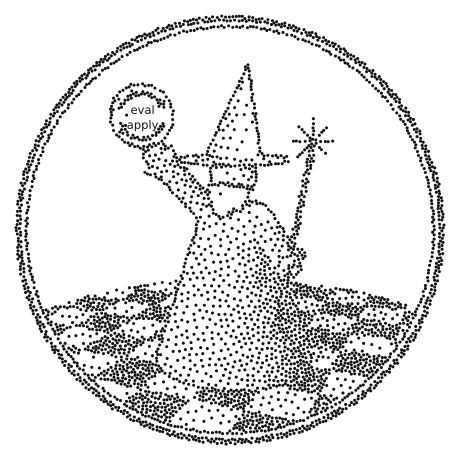
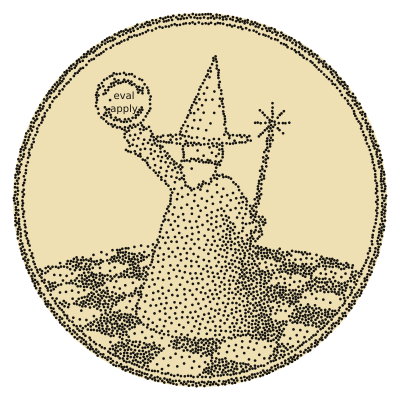
profile in ocra: agda and racket side by side, and puntini, the dot engine
The banners and the wizard in ochre and black (nero on ochre, ochre on nero),
the README with two workshops, agda and racket, and Ocra badges.
tools/puntini.rkt is the stippling engine both drawings now share, after SICP's
picture language: painters, over/beside/below and the frame, then stipple and svg.
Regenerated with the old colours, the drawings were byte-identical.

diff --git a/README.md b/README.md
@@ -1,30 +1,33 @@
 <p align="center">
   <picture>
     <source media="(prefers-color-scheme: dark)" srcset="./banner-dark.svg" />
-    <img src="./banner-light.svg" width="100%" alt="alvise vitturi — formally verified observability in agda" />
+    <img src="./banner-light.svg" width="100%" alt="alvise vitturi — type theory in agda and racket" />
   </picture>
 </p>
 
-<p align="center"><code>making invalid states unrepresentable — one dependently-typed observability tool at a time</code></p>
+<p align="center"><code>a proof is a program; a language is data — two workshops, agda and racket</code></p>
 
 <p align="center">
-  <img src="https://img.shields.io/badge/agda-2.8-111111?style=flat-square&labelColor=555555" />
-  <img src="https://img.shields.io/badge/type_theory-HoTT-111111?style=flat-square&labelColor=555555" />
-  <img src="https://img.shields.io/badge/nix-flakes-111111?style=flat-square&labelColor=555555" />
-  <img src="https://img.shields.io/badge/correct-by_construction-111111?style=flat-square&labelColor=555555" />
+  <img src="https://img.shields.io/badge/agda-2.8-d6b866?style=flat-square&labelColor=15130f" />
+  <img src="https://img.shields.io/badge/racket-8.18-d6b866?style=flat-square&labelColor=15130f" />
+  <img src="https://img.shields.io/badge/scheme-sicp_·_eval%2Fapply-d6b866?style=flat-square&labelColor=15130f" />
+  <img src="https://img.shields.io/badge/type_theory-HoTT-d6b866?style=flat-square&labelColor=15130f" />
+  <img src="https://img.shields.io/badge/nix-flakes-d6b866?style=flat-square&labelColor=15130f" />
+  <img src="https://img.shields.io/badge/correct-by_construction-d6b866?style=flat-square&labelColor=15130f" />
 </p>
 
 ---
 
 ### ● building
 
-a **formally verified observability stack in agda** — metrics, logs, alerts and
-dashboards that are *correct by construction*. no dsl accepts a malformed query, no
-alert inverts a threshold, no dashboard panel renders empty: the type checker rejects
-them before they ever leave the source file.
+two workshops, one bet: **a proof is a test that covers *all* inputs, not a finite sample.**
 
-the bet — **type theory is the cheapest place to catch an ops outage.** a proof is a
-test that covers *all* inputs, not a finite sample.
+- **agda** — a formally verified observability stack: metrics, logs, alerts and
+  dashboards that are *correct by construction*. no dsl accepts a malformed query, no
+  alert inverts a threshold, no dashboard panel renders empty.
+- **racket** — the scheme of sicp, where code is data and eval/apply is the whole
+  machine: **bottega**, a total mltt core in the style of pie, and a tower of `#lang`s
+  on top whose tests are proofs.
 
 ---
 
@@ -33,23 +36,28 @@ test that covers *all* inputs, not a finite sample.
 a single ecosystem. each library proves one law, then composes.
 
 ```
-observability
+agda · observability
   01  prometea      semantic framework for prometheus metrics — meaning, no syntax
   02  henql         typed promql dsl — the type checker is your linter        ↳ prometea
   03  loqeul        total query algebra unifying logql & elastic, correct optimizer
   04  agdovana      formally verified prometheus alerts → yaml                ↳ prometea
   05  penelope      verifiable grafana dashboards, panels & layout proven     ↳ henql · loqeul
 
-substrate
-  06  janus         agda↔haskell ffi bridge — decode ∘ encode ≡ id, proven closed
-  07  cardea        service config as a monotone map over a lattice of env-vars
-  08  ibisfs        a filesystem as a lattice, not a hierarchy                ↳ janus
-  09  gallicinium   server-side elm in agda — the model never leaves the server ↳ janus
-  10  efesta        type-indexed, deferred-execution dagger sdk              ↳ janus
-  11  dagger_gleam  the same idea in gleam — pipelines as typed data
-  12  piforge       nix toolchains for agda, haskell, elm, gleam & latex — prebuilt
-  13  bottega       an mltt core in racket, three dialects: disegno for dagger
-                    pipelines, prospettiva for nix config, affresco for server-side elm
+racket · bottega
+  06  bottega       a total mltt core in racket, pie-style — Π, Σ, ≡, refl by computation
+  07  disegno       #lang disegno — dagger pipelines declared, not run         ↳ bottega
+  08  prospettiva   #lang prospettiva — one model, many environments, nix      ↳ bottega
+  09  affresco      #lang affresco — the elm architecture, total, server-side  ↳ bottega
+  10  puntini       a stippling engine after sicp's picture language — these images
+
+agda · substrate
+  11  janus         agda↔haskell ffi bridge — decode ∘ encode ≡ id, proven closed
+  12  cardea        service config as a monotone map over a lattice of env-vars
+  13  ibisfs        a filesystem as a lattice, not a hierarchy                ↳ janus
+  14  gallicinium   server-side elm in agda — the model never leaves the server ↳ janus
+  15  efesta        type-indexed, deferred-execution dagger sdk              ↳ janus
+  16  dagger_gleam  the same idea in gleam — pipelines as typed data
+  17  piforge       nix toolchains for agda, haskell, elm, gleam & latex — prebuilt
 ```
 
 ---
@@ -67,8 +75,8 @@ substrate
 ### ● stack
 
 ```
-  languages    agda · haskell (ffi / malonzo) · gleam · racket
-  foundations  type theory · HoTT / univalence · lattice & order theory
+  languages    agda · racket / scheme · haskell (ffi / malonzo) · gleam
+  foundations  type theory · HoTT / univalence · sicp · lattice & order theory
   tooling      nix / nixos · dagger.io · latex (classicthesis)
   domain       prometheus · loki · elastic · grafana — formally verified
 ```
@@ -78,11 +86,11 @@ substrate
 ### ● signs
 
 <p align="center">
-  <img src="https://github-readme-stats.vercel.app/api?username=avit-io&show_icons=true&hide_border=true&title_color=888888&icon_color=888888&text_color=888888&bg_color=00000000" alt="stats" />
+  <img src="https://github-readme-stats.vercel.app/api?username=avit-io&show_icons=true&hide_border=true&title_color=8c6b27&icon_color=8c6b27&text_color=8c6b27&bg_color=00000000" alt="stats" />
 </p>
 
 <p align="center">
-  <img src="https://github-readme-stats.vercel.app/api/top-langs/?username=avit-io&layout=compact&hide_border=true&title_color=888888&text_color=888888&bg_color=00000000" alt="top languages" />
+  <img src="https://github-readme-stats.vercel.app/api/top-langs/?username=avit-io&layout=compact&hide_border=true&title_color=8c6b27&text_color=8c6b27&bg_color=00000000" alt="top languages" />
 </p>
 
 ---
@@ -90,9 +98,9 @@ substrate
 ### ● connect
 
 <p align="left">
-  <a href="https://www.linkedin.com/in/alvisevitturi"><img src="https://img.shields.io/badge/linkedin-alvise_vitturi-111111?style=flat-square&logo=linkedin&logoColor=white&labelColor=555555" /></a>
-  <a href="mailto:avit-io@proton.me"><img src="https://img.shields.io/badge/email-avit--io-111111?style=flat-square&logo=protonmail&logoColor=white&labelColor=555555" /></a>
-  <a href="https://avit-io.github.io"><img src="https://img.shields.io/badge/web-avit--io.github.io-111111?style=flat-square&logo=hugo&logoColor=white&labelColor=555555" /></a>
+  <a href="https://www.linkedin.com/in/alvisevitturi"><img src="https://img.shields.io/badge/linkedin-alvise_vitturi-d6b866?style=flat-square&logo=linkedin&logoColor=d6b866&labelColor=15130f" /></a>
+  <a href="mailto:avit-io@proton.me"><img src="https://img.shields.io/badge/email-avit--io-d6b866?style=flat-square&logo=protonmail&logoColor=d6b866&labelColor=15130f" /></a>
+  <a href="https://avit-io.github.io"><img src="https://img.shields.io/badge/web-avit--io.github.io-d6b866?style=flat-square&logo=hugo&logoColor=d6b866&labelColor=15130f" /></a>
 </p>
 
 <sub><code>● making invalid states unrepresentable · certainty by construction</code></sub>
